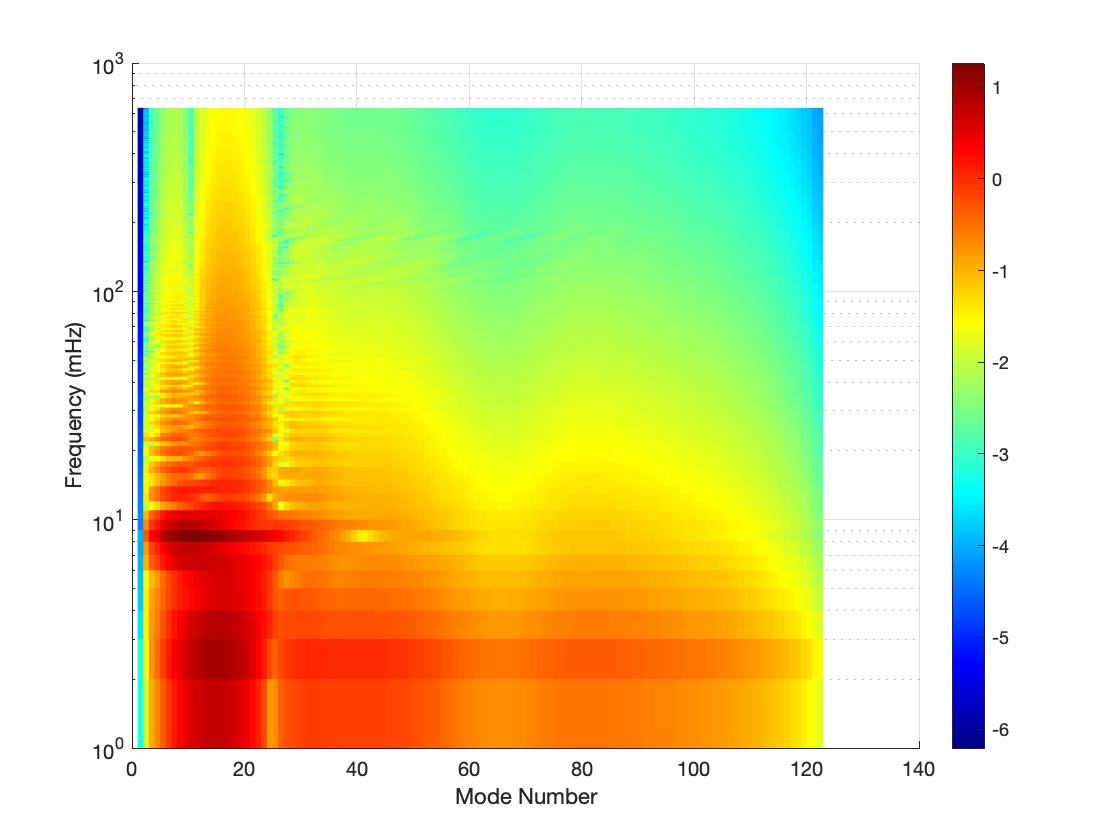
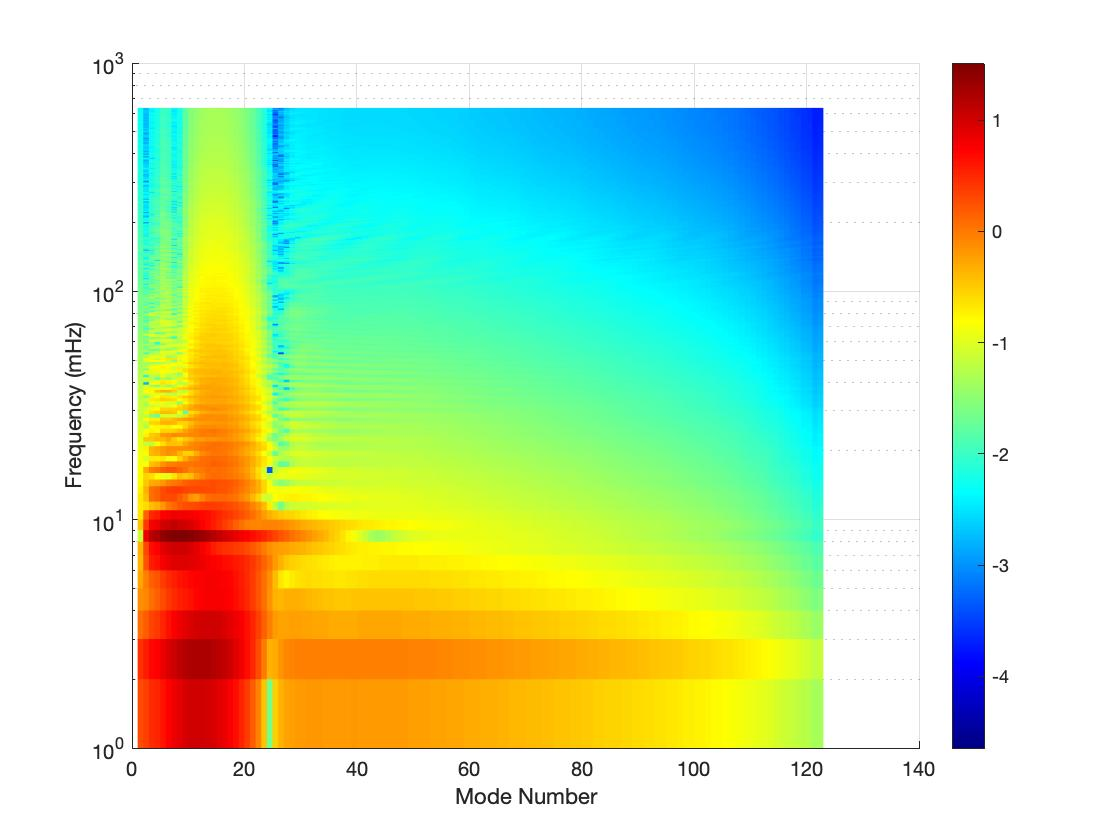
checking the fft analysis

diff --git a/matlab/fftorig.m b/matlab/fftorig.m
@@ -21,8 +21,9 @@ load(matfile);
 
 
 %nt=635;
-%S=evelv1Mm;  %vertical section at 0.5Mm 15
+%S=evelv1Mm;  %vertical section at 0.5Mm 15 evelv2Mm_bz
 evelv=evelv2Mm_v;
+%evelv=evelv2Mm_bz;
 S=evelv(:,:,1:nt);
 
 %proper orthogonal decomposition
@@ -57,7 +58,7 @@ ylabel('|P1(f)|')
 fftsurf=zeros(636,124);
 
 for i=1:124
-    tsamp=reshape(S(i,i,:),nt,1);
+    tsamp=reshape(S(27,i,:),nt,1);  %x-component is the height
     Y = fft(tsamp);
     P2 = abs(Y/L);
     P1 = P2(1:L/2+1);
